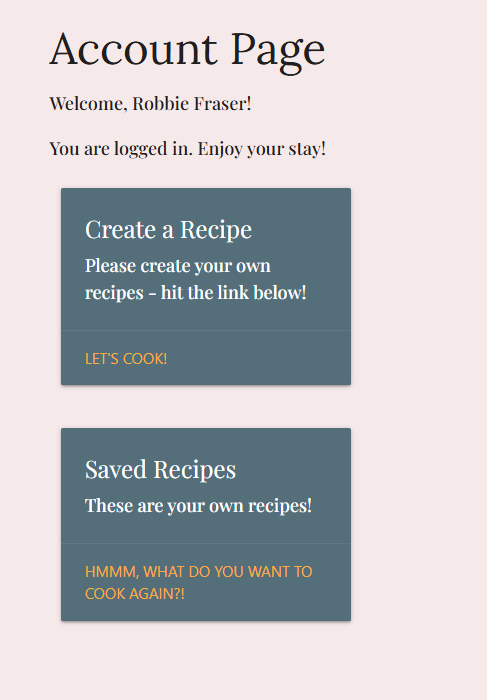
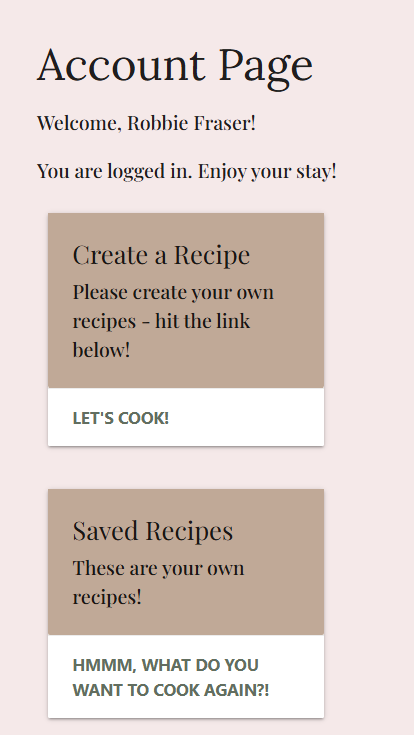
Added error info on the README

diff --git a/plantplates/templates/account.html b/plantplates/templates/account.html
@@ -7,8 +7,8 @@
 
   <div class="row">
     <div class="col s12 m6">
-      <div class="card blue-grey darken-1">
-        <div class="card-content white-text">
+      <div class="card">
+        <div class="card-content account-card">
           <span class="card-title">Create a Recipe</span>
           <p>Please create your own recipes - hit the link below!</p>
         </div>
@@ -21,8 +21,8 @@
 
   <div class="row">
     <div class="col s12 m6">
-      <div class="card blue-grey darken-1">
-        <div class="card-content white-text">
+      <div class="card">
+        <div class="card-content account-card">
           <span class="card-title">Saved Recipes</span>
           <p>These are your own recipes!</p>
         </div>

diff --git a/plantplates/static/css/style.css b/plantplates/static/css/style.css
@@ -84,7 +84,7 @@ footer {
   position: relative;
   z-index: 1;
   text-align: center;
-  color: orange;
+  color: #fafafa;
   padding-top: 15vh; /* Adjust to center the text vertically as needed */
 }
 
@@ -127,6 +127,10 @@ footer {
   max-width: 100%;
   height: auto;
   border-radius: 8px; /* optional: rounds the corners */
+}
+
+.account-card {
+  background-color: #c0a997;
 }
 
 /* Responsive: Stack vertically on smaller screens */

diff --git a/plantplates/templates/my_recipes.html b/plantplates/templates/my_recipes.html
@@ -50,10 +50,7 @@
         </div>
         <div class="card-action">
           <!-- Link to the detail page for this recipe -->
-          <a
-            href="{{ url_for('recipe_detail', recipe_id=recipe.id) }}"
-            class="blue-text"
-          >
+          <a href="{{ url_for('recipe_detail', recipe_id=recipe.id) }}">
             View Recipe
           </a>
         </div>

diff --git a/README.md b/README.md
@@ -106,6 +106,7 @@ Since it is a recipe website, I'm going to keep most of the images centered arou
 ![Before user has logged in on mobile](plantplates/static/images/README/mobile-navbar.png)
 
 - This is what the nav bar looks like before the user logs in on a mobile.
+- This a burger menu which expands when touched.
 
 ![After nav bar desktop-tablet](plantplates/static/images/README/tablet-desktop-after-log-in.png)
 
@@ -118,6 +119,8 @@ Since it is a recipe website, I'm going to keep most of the images centered arou
 ![Mobile Admin](plantplates/static/images/README/mobile-admin-categories.png)
 ![Desktop Admin](plantplates/static/images/README/admin-categories.png)
 
+- This has been hard coded into the route.py. I can add more admin users as and when but this seemed to be the best option at the moment.
+
 ### Footer
 
 ![Footer](plantplates/static/images/README/footer.png)
@@ -125,6 +128,8 @@ Since it is a recipe website, I'm going to keep most of the images centered arou
 - The footer is present through the website and stays the same with the social media icons.
 
 ### Modal Messages
+
+- I felt like the modal messages were a nice interactive touch to the website. This was instant gratification of knowing when the user has logged out or logged in. As mentioned below the message only lasts 2 seconds so it shouldn't interfer with the users fluidity of going through the website.
 
 ![Logged In Modal](plantplates/static/images/README/logged-in-modal.png)
 
@@ -141,12 +146,14 @@ Since it is a recipe website, I'm going to keep most of the images centered arou
 ![Homepage Hero Image](plantplates/static/images/README/home-hero-image.png)
 
 - This is situated right underneath the nav-bar with the title of the website within it and an indication of what the website is about.
+- I liked the transparency of the image and allowing the writing to come through.
 
 ### Website Values
 
 ![Website Values](plantplates/static/images/README/home-what-the-site-is.png)
 
 - These are the values of the website.
+- I have different coloured font to increase the contrast ratio to enable easier reading.
 
 ### Recently Added
 
@@ -164,7 +171,7 @@ Since it is a recipe website, I'm going to keep most of the images centered arou
 
 ![Our Story](plantplates/static/images/README/home-story.png)
 
-- This section is about the website owners and there aim through the website.
+- This section is about the website owners and their aim through the website.
 
 ## Login Page
 
@@ -182,13 +189,15 @@ Since it is a recipe website, I'm going to keep most of the images centered arou
 
 ![Account Page](plantplates/static/images/README/account-page.png)
 
-- Once the user has logged in, they are transport to their account page.
+- Once the user has logged in, they are transport to their account page straight. This is to invigerate the user into posting recipes onto the website.
 
 ## Create a New Recipe Page
 
 ![Create Page](plantplates/static/images/README/create-recipe-page.png)
 
 - The create a new recipe page has 9 input fields, one being an upload image section which uses AWS for image upload.
+
+- This has been designed to be as user friendly as possible.
 
 - The input fields include:
 
@@ -270,6 +279,18 @@ Since it is a recipe website, I'm going to keep most of the images centered arou
 
 ![Add Category](plantplates/static/images/README/add-category.png)
 
+## Error Handling
+
+### Login Error
+
+![Login Error](plantplates/static/images/README/login-error.png)
+
+- This appears if the user inputs invalid information.
+
+![Sign Up Error](plantplates/static/images/README/sign-up-error.png)
+
+- This appears if the user tries to sign up again.
+
 # Future Features
 
 ### Articles
@@ -286,21 +307,21 @@ Since it is a recipe website, I'm going to keep most of the images centered arou
 - Users can rate recipes using a 5-star rating system.
 - Display average ratings prominently to help visitors choose popular or highly-rated recipes.
 
-## Enhanced User Profiles
+### Enhanced User Profiles
 
 - Users can add profile pictures, biographies, favorite cuisine types, dietary preferences (e.g., gluten-free, nut-free), and cooking skill level.
 - Showcase each user's contributed recipes and articles in their profile.
 
-## Meal Planner and Grocery List Generator
+### Meal Planner and Grocery List Generator
 
 - Users can plan their weekly meals directly on the site by selecting recipes.
 - Automatically generate grocery shopping lists based on planned meals, with printable or downloadable PDF options.
 
-## Nutrition Information and Calculators
+### Nutrition Information and Calculators
 
 - Automatically calculate nutritional data for recipes, including calories, macros (protein, carbs, fats), and vitamins, to help health-conscious users.
 
-## Cooking Mode
+### Cooking Mode
 
 - A full-screen, step-by-step cooking mode that simplifies recipe viewing and includes timers and interactive checklists for ingredients and steps.
 
